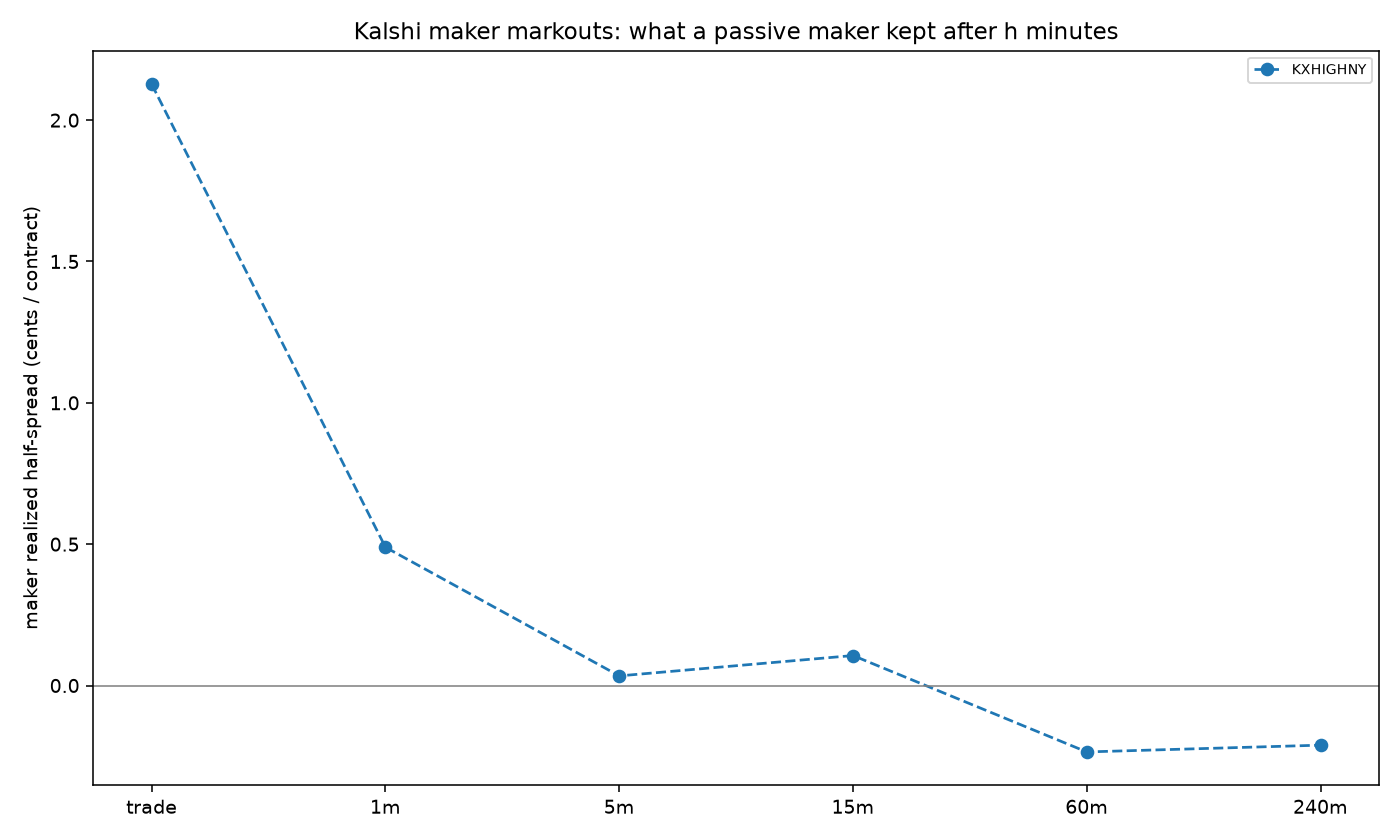
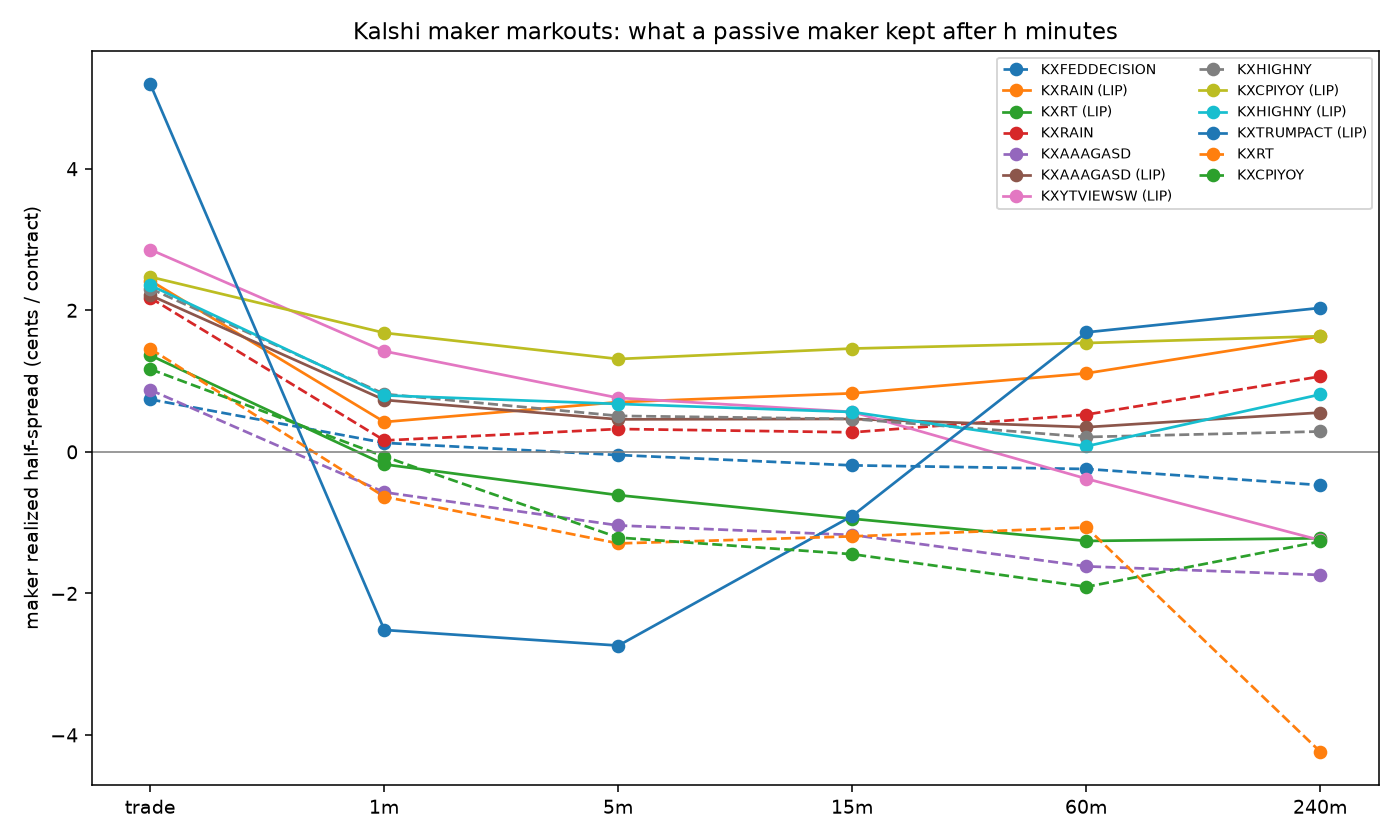
Fix per-contract fee rounding, resumable-file check, first markout results
- Fees: use unrounded 0.07/0.0175 * P(1-P) per contract (Kalshi rounds per order;
  per-contract ceil overstated maker fee as 1c everywhere)
- backfill: refetch files left unreadable by an interrupted run
- reports/ + docs/NEXT_STEPS.md: preliminary markouts and LIP $/contract for 8 series

diff --git a/kalshi_liq/markouts.py b/kalshi_liq/markouts.py
@@ -32,14 +32,19 @@ MAX_SPREAD = 0.25  # ignore quotes wider than this when forming the mid
 
 
 def taker_fee(p: np.ndarray) -> np.ndarray:
-    """Kalshi taker fee per contract: ceil(0.07 * P * (1-P) * 100) / 100."""
-    return np.ceil(np.round(0.07 * p * (1 - p) * 100, 6)) / 100
+    """Kalshi taker fee per contract, 0.07 * P * (1-P).
+
+    Kalshi charges ceil(0.07 * C * P * (1-P)) rounded up to the cent per ORDER of C
+    contracts, so per contract the unrounded value is the right average. Rounding up
+    per contract would overstate fees (e.g. 0.44c -> 1c)."""
+    return 0.07 * p * (1 - p)
 
 
 def maker_fee(p: np.ndarray) -> np.ndarray:
-    """Maker fee on series with fee_type 'quadratic_with_maker_fees' (0.0175 coefficient).
-    Treat as an assumption until checked against Kalshi's current fee schedule."""
-    return np.ceil(np.round(0.0175 * p * (1 - p) * 100, 6)) / 100
+    """Maker fee per contract on series with fee_type 'quadratic_with_maker_fees',
+    0.0175 * P * (1-P), same per-order rounding note as taker_fee.
+    Treat the coefficient as an assumption until checked against Kalshi's fee schedule."""
+    return 0.0175 * p * (1 - p)
 
 
 def lip_windows() -> pd.DataFrame:

diff --git a/kalshi_liq/backfill.py b/kalshi_liq/backfill.py
@@ -77,6 +77,15 @@ def markets_frame(markets: list[dict], series: str) -> pd.DataFrame:
     return df
 
 
+def _readable(p: Path) -> bool:
+    """False for a file left half-written by an interrupted run, so it gets refetched."""
+    try:
+        pd.read_parquet(p, columns=[])
+        return True
+    except Exception:
+        return False
+
+
 def backfill_series(c: KalshiClient, series: str, start: datetime, end: datetime, force: bool) -> None:
     t0 = time.time()
     s_ts, e_ts = int(start.timestamp()), int(end.timestamp())
@@ -105,7 +114,7 @@ def backfill_series(c: KalshiClient, series: str, start: datetime, end: datetime
     n_tr = 0
     for i, m in enumerate(todo.itertuples(index=False), 1):
         tp, cp = tdir / f"{m.ticker}.parquet", cdir / f"{m.ticker}.parquet"
-        if tp.exists() and cp.exists() and not force:
+        if tp.exists() and cp.exists() and not force and _readable(tp) and _readable(cp):
             continue
         tr = trades_frame(c.trades(m.ticker))
         tr.to_parquet(tp, index=False)

diff --git a/docs/NEXT_STEPS.md b/docs/NEXT_STEPS.md
@@ -26,6 +26,39 @@ we can use: every trade with **who was the aggressor**, plus **1‑minute best b
 That is enough for effective spread, markouts and adverse selection. It is **not** enough for
 sub‑minute markouts or queue position. For those we snapshot books going forward.
 
+### First results (Nov 13, preliminary: 8 series, ~1.8M trades, Oct 14 → Nov 13)
+
+From `reports/markout_summary.csv` and `reports/markout_curves.png`. Cents per contract,
+maker's side, contract-weighted. "LIP $/contract" = LIP dollars paid on those markets in
+the window ÷ contracts traded while LIP was on. It is the whole maker pool's subsidy
+per contract traded, not one maker's take.
+
+| Series | LIP | Realized spread @5m | P&L held to settlement | Maker fee | LIP $/contract |
+|---|---|---|---|---|---|
+| KXRT (Rotten Tomatoes) | on | −0.49 | −0.56 | 0.16 | **3.39** |
+| KXTRUMPACT | on | −2.22 | −3.89 | 0.15 | **4.38** |
+| KXYTVIEWSW | on | +1.02 | −2.11 | 0.05 | **2.90** |
+| KXCPIYOY | on | +0.95 | −0.12 | 0.21 | 0.78 |
+| KXAAAGASD | on / off | +0.29 / **−0.98** | +0.88 / **−1.61** | 0.12 | 0.31 |
+| KXRAIN | on / off | +0.55 / +0.26 | +0.19 / +0.68 | 0.22 | 0.19 |
+| KXHIGHNY | on / off | +0.44 / +0.63 | +0.52 / +1.37 | 0.20 | 0.07 |
+| KXFEDDECISION | off | −0.04 | −1.78 | 0.23 | — |
+
+What this suggests (to be tested properly, with CIs):
+- **Where LIP spending is heavy (entertainment, politics), makers lose to adverse selection and
+  the subsidy is several times bigger than the loss.** That is the likely headline:
+  in these markets the incentive is the business, not the spread.
+- **Where LIP is thin (weather, gas), the spread roughly pays for itself.** Daily gas is the
+  one series where the maker went from positive to negative after LIP switched off. That's
+  the before/after comparison to push on.
+- Fed: the spread is almost exactly eaten by markouts, and held to settlement the maker loses.
+  This is the information-event pattern from the hypothesis.
+
+**Caveats.** With 1‑minute quotes, effective spread and 1‑minute markouts both include
+price moves inside the minute; realized spread (their difference) is the more reliable
+number. Large sweeps dominate contract weighting. Small cells (CPIYOY off: 170 trades;
+KXRT off: 3.2k trades) are noise. The maker fee coefficient is still unverified (§6).
+
 ## 2. The study, re-centered on the Liquidity Incentive Program
 
 The program ([rules](https://help.kalshi.com/en/articles/13823851-liquidity-incentive-program),
